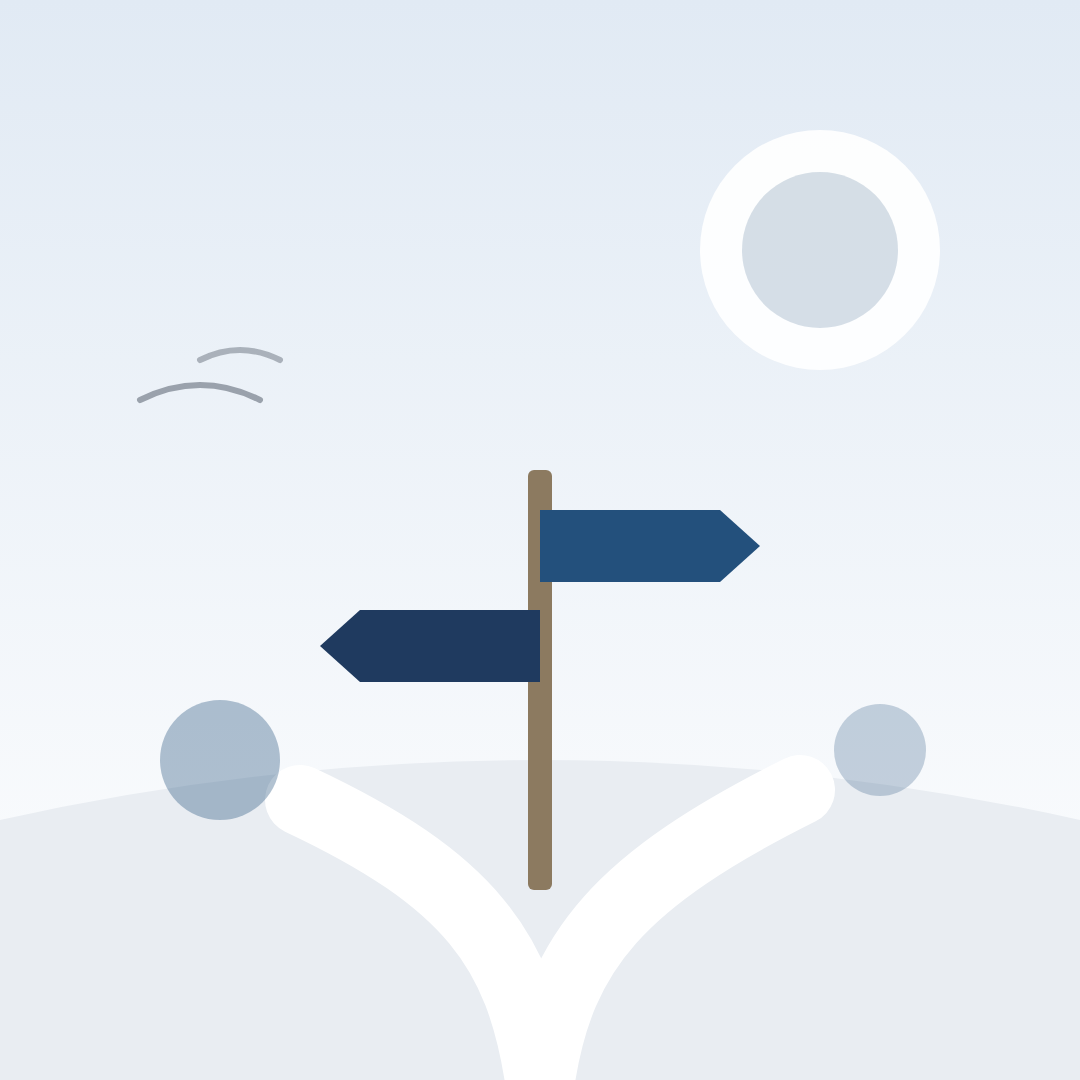
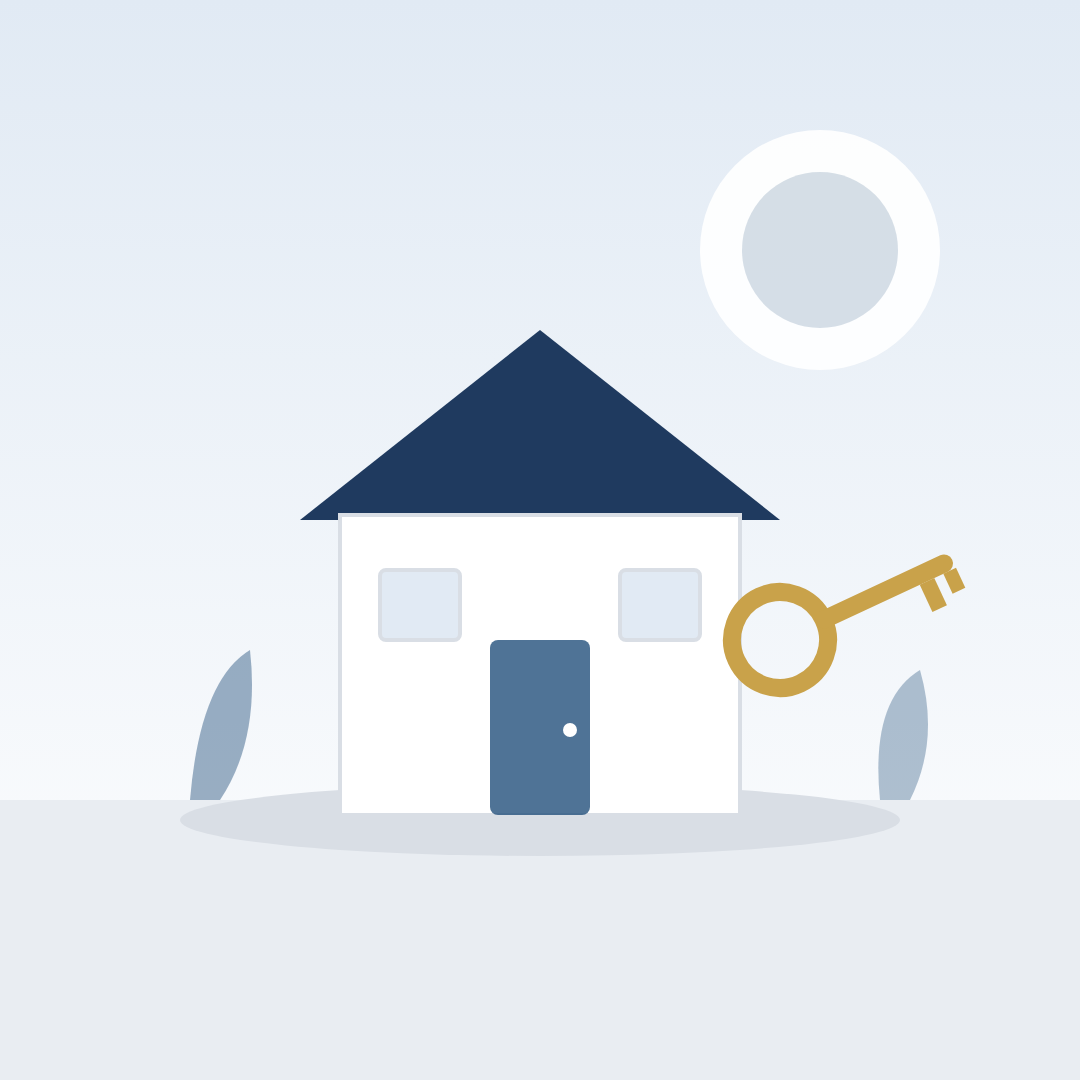
WIP: T005 images and meta (review in progress)
Claude-Session: https://claude.ai/code/session_0197TQ16wCGrHNP88fG9JodK

diff --git a/marketing-team/work/2026-09-24-limited-acceptance-guide/tistory/post.html b/marketing-team/work/2026-09-24-limited-acceptance-guide/tistory/post.html
@@ -25,7 +25,7 @@
 
 <blockquote><p>오늘은 한정승인의 <b>절차와 기간</b>, 준비할 <b>서류와 비용 항목</b>, 그리고 많은 분이 막히는 <b>재산목록 작성법</b>을 순서대로 정리해 보겠습니다.</p></blockquote>
 
-<p style="text-align: center;"><img src="{{IMAGE_1}}" alt="식탁 위에 쌓인 우편 봉투를 차분히 분류하는 손과 따뜻한 차 한 잔" /></p>
+<p style="text-align: center;"><img src="{{IMAGE_1}}" alt="책상 위 서류와 체크 표시 메모, 화분과 머그컵이 놓인 삽화로, 한정승인 준비를 차분히 시작하는 장면" /></p>
 <!-- 이미지 의도: 삽화. 장례 후 쌓인 우편물을 정리하기 시작하는 장면(손만 보임). 불안보다 '이제 정리를 시작한다'는 차분함. -->
 <p style="text-align: center; font-size: 13px; color: #48525F;">서두르기 전에, 먼저 제도가 무엇을 지켜 주는지부터 보겠습니다.</p>
 

diff --git a/marketing-team/work/2026-09-24-limited-acceptance-guide/visual_plan.md b/marketing-team/work/2026-09-24-limited-acceptance-guide/visual_plan.md
@@ -1,0 +1,45 @@
+# visual_plan: T005 한정승인 절차·비용·기간 가이드 (티스토리 / P1)
+
+기준일: 2026.09 · 기둥 색: P1 `#23507C` / `#E1EAF4` · 렌더: `images.json` → `images/`
+문구 근거: tistory/post.html 2절 비교표(V13·V5·V4·V11 계열), 6절 절차표(표 근거 V13, V5, V4, V11, V12, V8, V14, V15). 이미지 안에 원고에 없는 법적 결과·숫자·광고 금지어 없음. 기간 숫자는 3개월·5일·2개월만 사용.
+
+## 1. 이미지 기획표
+
+| 자리 | 종류 | 목적(독자가 얻는 것) | 템플릿/생성 방식 | 들어갈 문구 | 대체텍스트 | 파일명 | 캡션(선택) |
+|---|---|---|---|---|---|---|---|
+| 대표 | 정보(대표) | 목록·검색에서 글 주제를 한눈에 | `thumbnail` 렌더 | 태그 "상속 채무" / 제목 "한정승인 / 절차·비용·기간 / 가이드" / 부제 "재산목록 작성법까지 정리했습니다" / 2026.09 | 한정승인 절차·비용·기간 가이드 대표 이미지, 부제 "재산목록 작성법까지 정리했습니다" | limited-acceptance-thumbnail.png | - |
+| IMAGE_1 | 삽화(공감) | 장례 뒤 쌓인 우편물 앞에서 "이제 차분히 정리를 시작하면 된다"는 느낌 | AI(gpt-image, 아래 image_1) / 대체: `illustration` scene=desk 렌더 | 없음 | (AI판) 식탁 위 우편 봉투를 작은 묶음으로 차분히 나누는 손과 따뜻한 차 한 잔을 그린 삽화, 한정승인을 검토하기 전 상속 빚 우편물을 정리하는 장면 / (대체 렌더판) 책상 위 서류와 체크 표시 메모, 화분과 머그컵이 놓인 삽화로, 한정승인 준비를 차분히 시작하는 장면 | AI: image_1.png / 대체: limited-acceptance-illust-1.png | 서두르기 전에, 먼저 제도가 무엇을 지켜 주는지부터 보겠습니다. (원고 기존 캡션 유지) |
+| IMAGE_2 | 정보(비교) | 두 제도가 갈리는 지점 4가지를 한 장으로 | `compare` 렌더 | 태그 "한눈에 비교" / 제목 "한정승인과 상속포기, 어디서 갈리나" / 한 줄 정의: 물려받은 재산 범위 안에서만 빚을 갚음 · 처음부터 상속인이 아니었던 것이 됨 / 상속인 자리: 그대로 유지 · 없어짐 / 다음 순위: 빚이 넘어가는 문제를 줄일 수 있음 · 다음 순위가 상속인이 될 수 있음 / 기간 넘기면: 단순승인한 것으로 봄 · 단순승인한 것으로 봄 | 한정승인과 상속포기 비교표: 전자는 물려받은 재산 범위 안에서만 빚을 갚고 상속인 자리를 유지해 빚이 다음 순위로 넘어가는 문제를 줄일 수 있고, 후자는 처음부터 상속인이 아니었던 것이 되어 다음 순위가 상속인이 될 수 있음. 기간을 넘기면 둘 다 단순승인한 것으로 봄 | limited-acceptance-compare.png | - |
+| IMAGE_3 | 삽화(숨 고르기) | 4절 "무너뜨리는 행동" 뒤 긴장을 풀고 "손대지 않고 그대로 두면 된다"로 넘어감 | AI(gpt-image, 아래 image_3) / 대체: `illustration` scene=path 렌더 | 없음 | (AI판) 오래된 집 현관 선반의 작은 접시에 그대로 놓인 열쇠와 반쯤 열린 문으로 들어오는 아침 햇살을 그린 삽화, 한정승인 결정 전 상속재산에 손대지 않고 두는 장면 / (대체 렌더판) 두 갈래 길과 이정표를 그린 삽화, 한정승인과 다른 선택지를 차분히 살펴보는 장면 | AI: image_3.png / 대체: limited-acceptance-illust-2.png | 손대지 않고 그대로 두었다면, 이제 무엇이 있는지 적어 볼 차례입니다. (원고 기존 캡션 유지) |
+| IMAGE_4 | 정보(절차) | 신고부터 나눠 갚기까지 순서와 기한 | `steps` 렌더 (원고 6절 절차표가 실제 순서) | 태그 "신고 절차" / 제목 "한정승인, 이 순서로 진행돼요" / 1 재산과 빚 조회 - 안심상속 조회 + 조회 안 되는 빚 확인 / 2 신고서·재산목록 제출 - 상속이 시작된 것을 안 날부터 3개월 안 / 3 법원 결정 기다리기 - 결정 전 상속재산 처분 금지 / 4 채권자 공고·개별 통지 - 한정승인을 한 뒤 5일 안, 신고 기간 2개월 이상 / 5 상속재산으로 나눠 갚기 - 우선권 있는 채권자 먼저, 나머지는 비율대로 | 한정승인 신고 절차 5단계: 안심상속 조회와 조회 안 되는 빚 확인, 상속이 시작된 것을 안 날부터 3개월 안에 신고서·재산목록 제출, 법원 결정 전 상속재산 처분 금지, 한정승인을 한 뒤 5일 안에 신고 기간 2개월 이상으로 채권자 공고·개별 통지, 우선권 있는 채권자 먼저 나머지는 비율대로 상속재산으로 나눠 갚기 | limited-acceptance-steps.png | - |
+| IMAGE_5 | 삽화(정리 끝·안도, h2 8개라 추가) | 결정 이후 할 일까지 본 뒤 "기한만 표시해 두면 된다"는 안도 | AI(gpt-image, 아래 image_5) / 대체: `illustration` scene=calm 렌더 | 없음 | (AI판) 햇살 드는 창가에서 차 한 잔을 들고 쉬는 뒷모습, 덮어 둔 서류철과 날짜 하나에 동그라미를 친 달력을 그린 삽화, 한정승인 기한을 정리하고 한숨 돌리는 장면 / (대체 렌더판) 아침 햇살 드는 창가에 김이 오르는 차 한 잔과 화분이 놓인 삽화로, 한정승인 절차를 정리하고 숨을 고르는 장면 | AI: image_5.png / 대체: limited-acceptance-illust-3.png | 마지막으로, 상담에서 자주 받는 질문을 모았습니다. (원고 기존 캡션 유지) |
+
+구성 확인: 대표 1 + 삽화(1) → 정보(2) → 삽화(3) → 정보(4) → 삽화(5). 삽화 3장, 정보 2장, 정보 이미지 연속 없음. h2 8개라 삽화 1장 추가 규칙 충족.
+네이버판과의 차별화: 현재 티스토리 단독. 네이버판을 만들 때는 compare 대신 checklist("신고 전 챙길 서류" 등)로, steps 대신 다른 제목·구성으로 바꿀 것.
+
+### 문구 검수 메모 (법리 검수 대상)
+- 대표: 제목 후보 1순위에서 '완벽'만 뺐습니다(과장으로 읽힐 수 있다는 meta.md 메모 반영, 이미지 안에는 넣지 않음). 변호사가 2~4번 안('비용' 제외)을 고르면 제목 둘째 줄을 "절차·기간"으로 바꿔 재렌더해야 합니다.
+- 비교표: 원고 2절 표 4행 그대로이고 새 항목은 없습니다. 라벨 두 개를 줄였습니다(다음 순위 가족→다음 순위, 기간 안에 안 하면→기간 넘기면). 마지막 행은 원고 병합 셀("3개월 안에 한정승인이나 포기를 하지 않으면 단순승인한 것으로 봄")을 양쪽 칸에 같은 문장으로 나눈 것입니다. '없어짐', '줄일 수 있음'은 원고 강도 그대로입니다. V3(2023 전원합의체) 내용은 이미지에 넣지 않았습니다.
+- 절차: 원고 6단계 중 2단계 '기간 연장 청구'는 선택 단계라 뺐습니다. 1단계 기한 "사망일이 속한 달 말일부터 1년"은 허용 숫자(3개월·5일·2개월) 밖이라 넣지 않았습니다. 2단계 기산점은 본문 표현 "상속이 시작된 것을 안 날부터 3개월"을 따랐고, 관할(마지막 주소지 가정법원)은 글자 수 때문에 뺐습니다. 3~5단계는 표의 '기한·주의' 칸을 그대로 옮겼습니다.
+- 렌더 확인: 1차 렌더에서 compare 라벨 "다음 순위 가족", "3개월 안에 안 하면"이 두 줄로 꺾여 짧게 줄인 뒤 한 번 재렌더했습니다. 대표·steps·삽화 3장은 넘침·잘림이 없습니다. compare 본문 셀에서 "수 있음"이 다음 줄로 넘어가는 것은 템플릿 줄바꿈 때문이며 잘림은 아닙니다.
+- 대체 삽화(path)는 원고 IMAGE_3의 의도(현관 열쇠, 그대로 두기)와 맞지 않습니다. 요청대로 scene을 desk/path/calm으로 나눴습니다. 대체 렌더를 실제로 쓸 경우 IMAGE_3은 `home` scene이 캡션과 더 잘 맞으니, 그때는 home으로 다시 렌더하고 대체텍스트를 바꾸기를 권합니다.
+- 원고 post.html의 현재 alt는 AI판 장면 기준입니다. 대체 렌더판을 올리면 위 '대체 렌더판' 대체텍스트로 바꿔야 합니다.
+
+## 2. AI 삽화 프롬프트 (gpt-image, 1024x1024)
+
+### image_1.png
+Hands calmly sorting a pile of plain mail envelopes into neat small stacks on a wooden kitchen table, a warm cup of tea and a small potted plant nearby with soft sunlight falling across the table, accent color deep blue (#23507C), warm flat editorial illustration, soft grain texture, muted navy (#1F3A5F) and slate palette with one gentle accent color, soft paper background, rounded simple shapes, generous negative space, soft morning light, calm and hopeful mood, people shown only from behind or as hands or silhouettes, No text, no letters, no numbers, no logos, no flags, no recognizable faces
+
+- 장면 근거: P1 라이브러리 "식탁 위 봉투 더미를 차분히 분류하는 손". 해결 방향 소품: 차 한 잔·햇살. 봉투는 'plain'으로 지정해 글자·로고가 생기지 않게 했습니다.
+
+### image_3.png
+A quiet, tidy entryway of an old family home seen from inside, a set of house keys resting untouched in a small dish on a wooden shelf, morning sunlight streaming in through a half-open front door, accent color deep blue (#23507C), warm flat editorial illustration, soft grain texture, muted navy (#1F3A5F) and slate palette with one gentle accent color, soft paper background, rounded simple shapes, generous negative space, soft morning light, calm and hopeful mood, people shown only from behind or as hands or silhouettes, No text, no letters, no numbers, no logos, no flags, no recognizable faces
+
+- 장면 근거: P1 라이브러리 "오래된 집 현관의 열쇠" + 원고 IMAGE_3 의도(손대지 않고 그대로 두기). 해결 방향 소품: 반쯤 열린 문·아침 햇살. 인물은 없습니다.
+
+### image_5.png
+Seen from behind, a person sits relaxed by a sunny window holding a warm cup of tea, a neatly closed document folder on the table and a blank wall calendar with one square softly circled, accent color deep blue (#23507C), warm flat editorial illustration, soft grain texture, muted navy (#1F3A5F) and slate palette with one gentle accent color, soft paper background, rounded simple shapes, generous negative space, soft morning light, calm and hopeful mood, people shown only from behind or as hands or silhouettes, No text, no letters, no numbers, no logos, no flags, no recognizable faces
+
+- 장면 근거: P1 라이브러리 "달력에 표시한 날짜와 따뜻한 차". 해결 방향 소품: 덮어 둔 서류철. 달력은 'blank'로 지정해 숫자가 생기지 않게 했습니다.
+
+생성 후 확인할 것: 봉투·달력·서류철에 글자나 숫자처럼 보이는 무늬가 생겼는지, 법원 건물·로고·국가 문장이 섞였는지 살펴보고, 있으면 다시 생성합니다.
